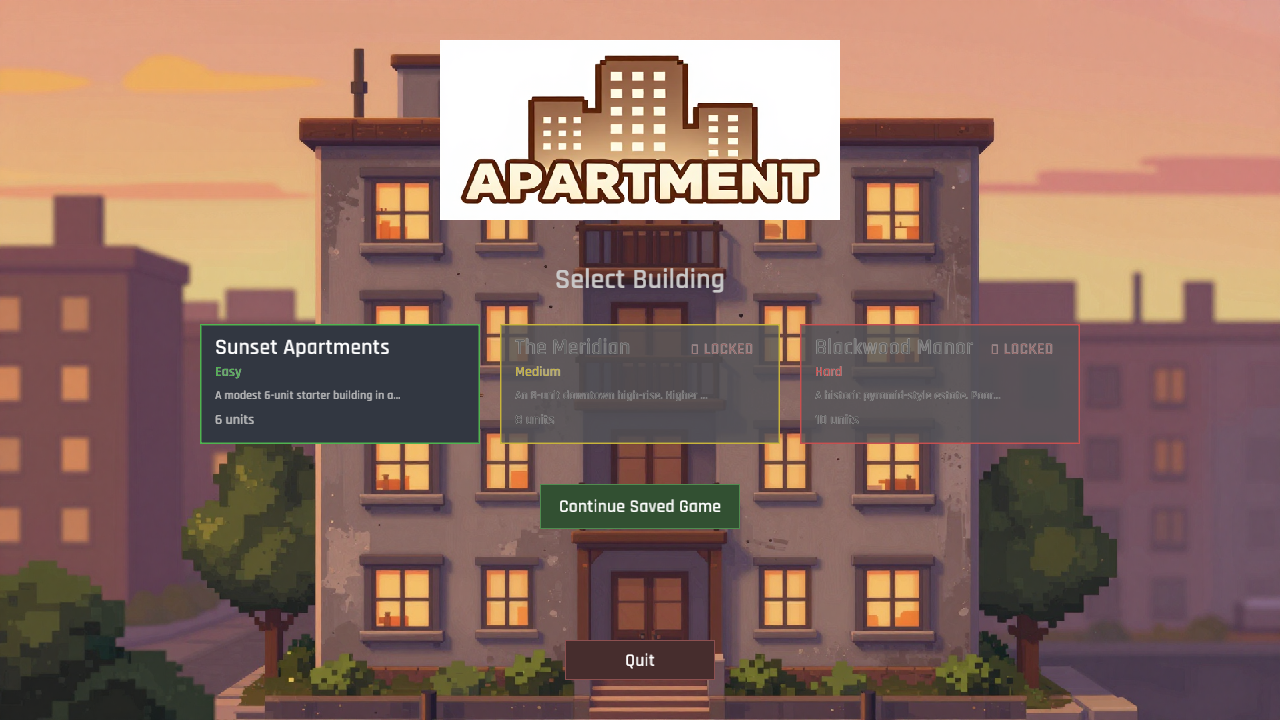
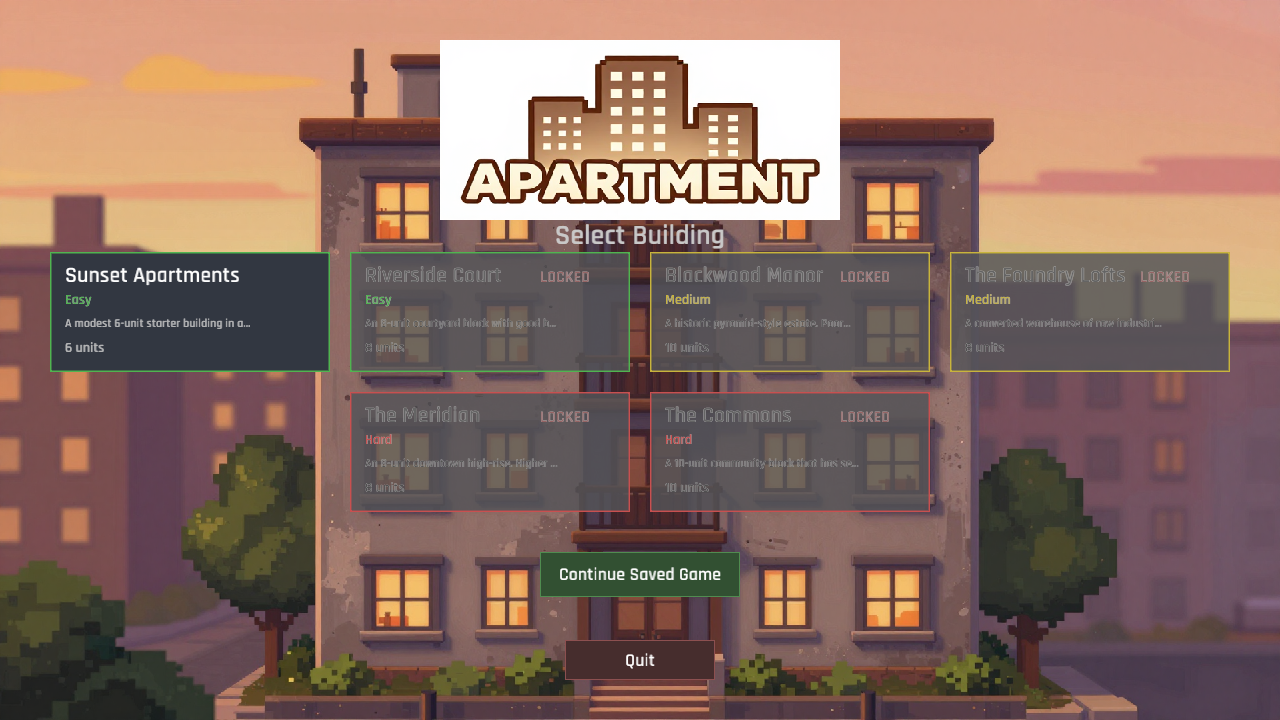
Refactor menu layout logic for building cards and improve grid calculations

Changed region(s): [[0.0312, 0.3056, 0.9688, 0.7333], [0.4062, 0.7639, 0.5938, 0.8556]]

diff --git a/src/state/menu.rs b/src/state/menu.rs
@@ -5,6 +5,45 @@ use crate::save::{has_save_game, load_game, load_player_progress, PlayerProgress
 use macroquad::prelude::*;
 use macroquad_toolkit::ui::{draw_ui_text, measure_ui_text};
 
+const CARD_W: f32 = 280.0;
+const CARD_H: f32 = 120.0;
+const CARD_SPACING: f32 = 20.0;
+const GRID_EDGE_MARGIN: f32 = 40.0;
+
+fn grid_top() -> f32 {
+    screen_height() * 0.35
+}
+
+fn grid_columns(count: usize) -> usize {
+    let fit = ((screen_width() - GRID_EDGE_MARGIN * 2.0 + CARD_SPACING) / (CARD_W + CARD_SPACING))
+        .floor() as usize;
+    fit.clamp(1, count.max(1))
+}
+
+/// Rect for building card `i`; rows wrap to fit the screen width and each row
+/// is centered. Shared by hit-testing and rendering so they can't drift apart.
+fn card_rect(i: usize, count: usize) -> Rect {
+    let columns = grid_columns(count);
+    let row = i / columns;
+    let col = i % columns;
+    let cards_in_row = (count - row * columns).min(columns);
+    let row_width = cards_in_row as f32 * (CARD_W + CARD_SPACING) - CARD_SPACING;
+    Rect::new(
+        (screen_width() - row_width) / 2.0 + col as f32 * (CARD_W + CARD_SPACING),
+        grid_top() + row as f32 * (CARD_H + CARD_SPACING),
+        CARD_W,
+        CARD_H,
+    )
+}
+
+fn grid_bottom(count: usize) -> f32 {
+    if count == 0 {
+        return grid_top();
+    }
+    let rows = count.div_ceil(grid_columns(count));
+    grid_top() + rows as f32 * (CARD_H + CARD_SPACING) - CARD_SPACING
+}
+
 pub struct MenuState {
     has_save: bool,
     progress: PlayerProgress,
@@ -30,26 +69,13 @@ impl MenuState {
         let (mx, my) = mouse_position();
         let clicked = is_mouse_button_pressed(MouseButton::Left);
 
-        // Layout constants
-        let card_w = 280.0;
-        let card_h = 120.0;
-        let card_spacing = 20.0;
-        let start_y = screen_height() * 0.45;
-
-        // Calculate total width to center cards
-        let total_width =
-            self.templates.len() as f32 * card_w + (self.templates.len() - 1) as f32 * card_spacing;
-        let start_x = (screen_width() - total_width) / 2.0;
-
         // Building cards
+        let count = self.templates.len();
         for (i, template) in self.templates.iter().enumerate() {
-            let x = start_x + i as f32 * (card_w + card_spacing);
-            let y = start_y;
-
+            let rect = card_rect(i, count);
             let is_unlocked = self.progress.is_unlocked(&template.id);
 
-            if is_unlocked && clicked && mx >= x && mx <= x + card_w && my >= y && my <= y + card_h
-            {
+            if is_unlocked && clicked && rect.contains(vec2(mx, my)) {
                 // Start game with this building template
                 let state = GameplayState::new_with_template(config.clone(), template.clone());
                 return Some(StateTransition::ToGameplay(state));
@@ -61,7 +87,7 @@ impl MenuState {
             let btn_w = 200.0;
             let btn_h = 45.0;
             let btn_x = screen_width() / 2.0 - btn_w / 2.0;
-            let btn_y = start_y + card_h + 40.0;
+            let btn_y = grid_bottom(count) + 40.0;
 
             if clicked && mx >= btn_x && mx <= btn_x + btn_w && my >= btn_y && my <= btn_y + btn_h {
                 if let Ok(state) = load_game() {
@@ -143,31 +169,23 @@ impl MenuState {
         draw_ui_text(
             section_title,
             screen_width() / 2.0 - section_width / 2.0,
-            screen_height() * 0.40,
+            grid_top() - 8.0,
             section_size,
             Color::from_rgba(200, 200, 200, 255),
         );
 
-        // Layout constants
-        let card_w = 280.0;
-        let card_h = 120.0;
-        let card_spacing = 20.0;
-        let start_y = screen_height() * 0.45;
-
-        let total_width =
-            self.templates.len() as f32 * card_w + (self.templates.len() - 1) as f32 * card_spacing;
-        let start_x = (screen_width() - total_width) / 2.0;
-
         let (mx, my) = mouse_position();
 
         // Draw building cards
+        let count = self.templates.len();
         for (i, template) in self.templates.iter().enumerate() {
-            let x = start_x + i as f32 * (card_w + card_spacing);
-            let y = start_y;
+            let rect = card_rect(i, count);
+            let (x, y) = (rect.x, rect.y);
+            let (card_w, card_h) = (rect.w, rect.h);
 
             let is_unlocked = self.progress.is_unlocked(&template.id);
             let is_completed = self.progress.completed_buildings.contains(&template.id);
-            let is_hovered = mx >= x && mx <= x + card_w && my >= y && my <= y + card_h;
+            let is_hovered = rect.contains(vec2(mx, my));
 
             // Card background
             let bg_color = if !is_unlocked {
@@ -201,9 +219,11 @@ impl MenuState {
             let diff_color = border_color;
             draw_ui_text(&template.difficulty, x + 15.0, y + 52.0, 14.0, diff_color);
 
-            // Description (truncated)
-            let desc = if template.description.len() > 40 {
-                format!("{}...", &template.description[..37])
+            // Description (truncated on a char boundary — byte slicing panics on
+            // multi-byte characters)
+            let desc = if template.description.chars().count() > 40 {
+                let truncated: String = template.description.chars().take(37).collect();
+                format!("{}...", truncated)
             } else {
                 template.description.clone()
             };
@@ -227,7 +247,7 @@ impl MenuState {
             // Locked overlay
             if !is_unlocked {
                 draw_ui_text(
-                    "🔒 LOCKED",
+                    "LOCKED",
                     x + card_w - 90.0,
                     y + 30.0,
                     16.0,
@@ -252,7 +272,7 @@ impl MenuState {
             let btn_w = 200.0;
             let btn_h = 45.0;
             let btn_x = screen_width() / 2.0 - btn_w / 2.0;
-            let btn_y = start_y + card_h + 40.0;
+            let btn_y = grid_bottom(count) + 40.0;
 
             let hovered = mx >= btn_x && mx <= btn_x + btn_w && my >= btn_y && my <= btn_y + btn_h;
             let bg = if hovered {